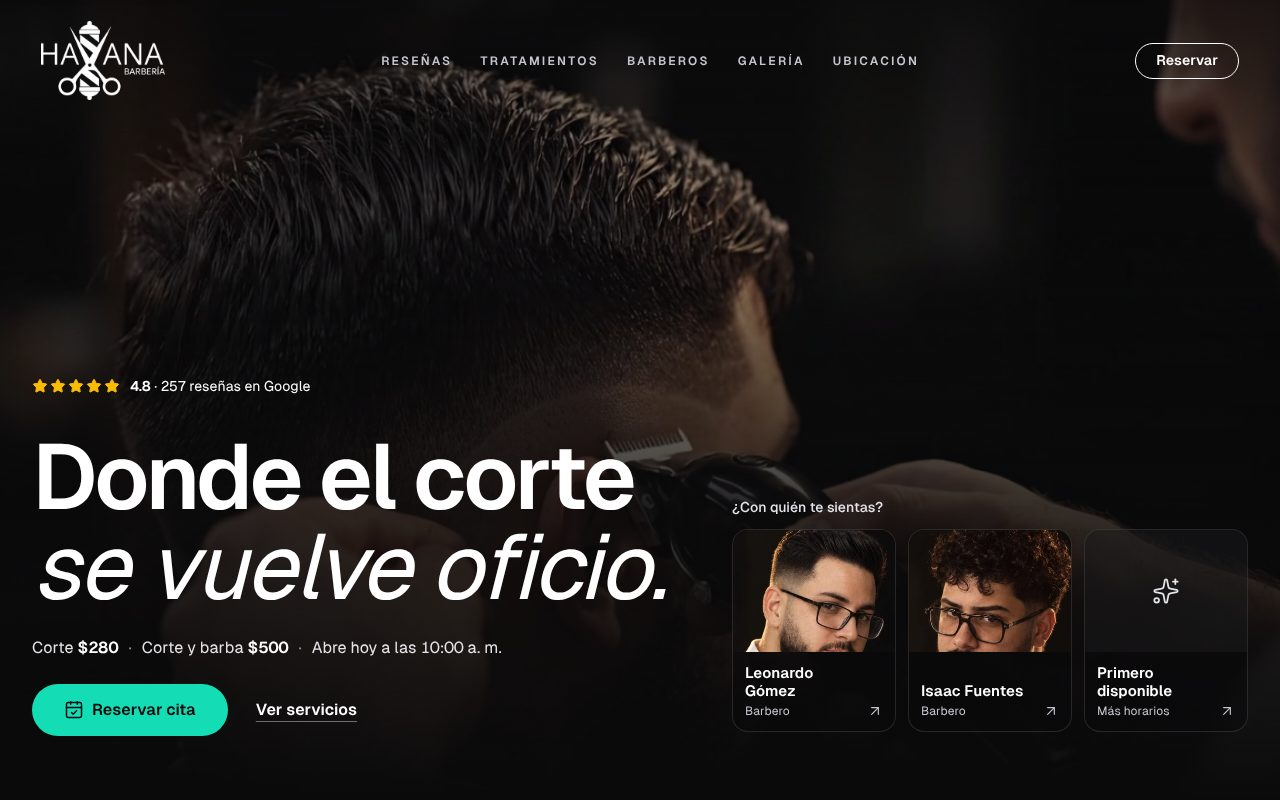
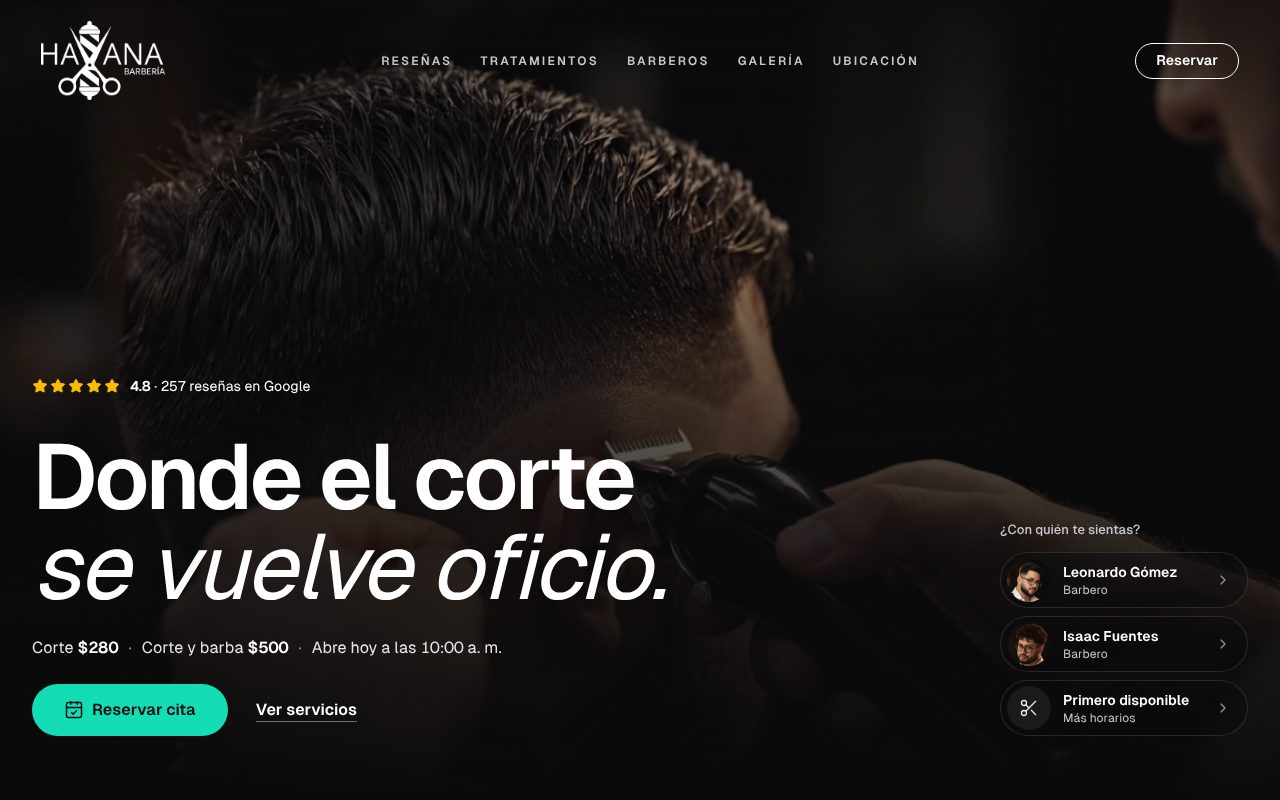
feat(hero): compact barber pills with head-and-shoulders crops
- New 120/240px head-and-shoulders crops for the hero picker (faces were
  cut by re-cropping the tight avatar squares to 4:3). Booking-flow
  avatars unchanged.
- Smaller, quieter pills (44px photo, name, role): a narrow column on
  desktop, a horizontal row on phones sized to their text.
- "Primero disponible" uses scissors instead of the sparkles icon.

Claude-Session: https://claude.ai/code/session_01NHKoghEm5eB2m6PAe8twDd

Changed region(s): [[0.7188, 0.6562, 0.9375, 0.9062], [0.5625, 0.625, 0.6875, 0.9062]]

diff --git a/src/features/home/HeroBarberPicker.tsx b/src/features/home/HeroBarberPicker.tsx
@@ -1,95 +1,90 @@
 import { Link } from 'react-router-dom'
-import { ArrowUpRight, Sparkles } from 'lucide-react'
+import { ChevronRight, Scissors } from 'lucide-react'
 import { useStaff } from '@/app/queries'
 import { routes } from '@/app/routes'
 import { teamOrder } from '@/config/team'
 import { cn } from '@/lib/cn'
-import { staffFaces } from './media'
+import { staffCards } from './media'
 
-const card = cn(
-  'group relative flex h-full w-[148px] shrink-0 snap-start flex-col overflow-hidden rounded-lg border border-white/[0.12] bg-ink-950/55 backdrop-blur-md',
-  'transition-[border-color,background-color,transform] duration-base ease-brand hover:-translate-y-0.5 hover:border-white/30 hover:bg-ink-950/70',
-  'focus-visible:outline focus-visible:outline-2 focus-visible:outline-offset-2 focus-visible:outline-aqua-400 motion-reduce:hover:translate-y-0',
-  'sm:w-[164px]',
+const row = cn(
+  'group flex h-14 w-auto shrink-0 snap-start items-center gap-3 rounded-full border border-white/[0.12] bg-ink-950/50 pl-1.5 pr-4 backdrop-blur-md',
+  'transition-[border-color,background-color] duration-base ease-brand hover:border-white/30 hover:bg-ink-950/70',
+  'focus-visible:outline focus-visible:outline-2 focus-visible:outline-offset-2 focus-visible:outline-aqua-400',
+  'lg:w-[248px]',
 )
 
+function RowText({ title, subtitle }: { title: string; subtitle: string }) {
+  return (
+    <>
+      <span className="grid flex-none whitespace-nowrap leading-tight lg:min-w-0 lg:flex-1 lg:whitespace-normal">
+        <span className="truncate text-sm font-semibold text-white">{title}</span>
+        <span className="truncate text-xs text-gray-300">{subtitle}</span>
+      </span>
+      <ChevronRight
+        className="size-4 shrink-0 text-gray-400 transition-[color,transform] duration-base group-hover:translate-x-0.5 group-hover:text-white motion-reduce:group-hover:translate-x-0"
+        strokeWidth={1.75}
+        aria-hidden
+      />
+    </>
+  )
+}
+
 /**
- * "¿Con quién te sientas?" — one tap opens the booking flow with the barber
- * preselected (the flow already reads ?barbero=). The service is chosen in step 1.
+ * "¿Con quién te sientas?" — compact pills; one tap opens the booking flow with the
+ * barber preselected (the flow already reads ?barbero=). The service is chosen in step 1.
+ * Desktop: a narrow column; phones: a horizontal row that scrolls.
  */
 export function HeroBarberPicker() {
   const { data: staff } = useStaff()
-  // One slot per barber from the start (skeleton until the data arrives), so the
-  // carousel never shifts or re-snaps when the cards load.
+  // One slot per barber from the start (skeleton until data arrives) so nothing shifts.
   const barbers = teamOrder.map((id) => ({ id, s: staff?.find((x) => x.id === id) }))
 
   return (
-    <div className="grid gap-3">
-      <p id="hero-barbers" className="text-sm font-medium text-gray-200">
+    <div className="grid gap-2.5">
+      <p id="hero-barbers" className="text-[13px] font-medium text-gray-300">
         ¿Con quién te sientas?
       </p>
       <ul
         aria-labelledby="hero-barbers"
-        className="no-scrollbar -mx-4 flex snap-x scroll-px-4 items-stretch gap-3 overflow-x-auto px-4 pb-1 lg:mx-0 lg:overflow-visible lg:px-0"
+        className="no-scrollbar -mx-4 flex snap-x scroll-px-4 gap-2 overflow-x-auto px-4 pb-1 lg:mx-0 lg:flex-col lg:overflow-visible lg:px-0 lg:pb-0"
       >
         {barbers.map(({ id, s: b }) => {
-          const face = staffFaces[id]
+          const photo = staffCards[id]
           if (!b)
             return (
-              <li key={id} className="flex" aria-hidden>
-                <span className={cn(card, 'animate-pulse')}>
-                  <span className="aspect-[4/3] w-full bg-white/[0.06]" />
-                  <span className="h-[58px]" />
+              <li key={id} aria-hidden className="shrink-0">
+                <span className={cn(row, 'animate-pulse')}>
+                  <span className="size-11 shrink-0 rounded-full bg-white/[0.08]" />
                 </span>
               </li>
             )
           return (
-            <li key={id} className="flex">
-              <Link to={routes.bookWith({ staffId: b.id })} className={card}>
-                {face && (
+            <li key={id} className="shrink-0">
+              <Link to={routes.bookWith({ staffId: id })} className={row}>
+                {photo && (
                   <img
-                    src={face.src}
-                    srcSet={face.srcSet}
-                    sizes="164px"
+                    src={photo.src}
+                    srcSet={photo.srcSet}
+                    sizes="44px"
                     alt=""
-                    width={160}
-                    height={160}
+                    width={44}
+                    height={44}
                     loading="lazy"
                     decoding="async"
-                    className="aspect-[4/3] w-full object-cover object-[50%_35%]"
+                    className="size-11 shrink-0 rounded-full object-cover"
                   />
                 )}
-                <span className="flex flex-1 items-end justify-between gap-2 p-3">
-                  <span className="grid">
-                    <span className="text-[15px] font-semibold leading-tight text-white">{b.name}</span>
-                    <span className="mt-0.5 text-xs text-gray-300">Barbero</span>
-                  </span>
-                  <ArrowUpRight
-                    className="size-4 shrink-0 text-gray-300 transition-colors group-hover:text-white"
-                    strokeWidth={1.75}
-                    aria-hidden
-                  />
-                </span>
+                <RowText title={b.name} subtitle="Barbero" />
               </Link>
             </li>
           )
         })}
-        <li className="flex">
-          <Link to={routes.bookWith({ staffId: 'any' })} className={card}>
-            <span className="grid aspect-[4/3] w-full place-items-center bg-white/[0.04]" aria-hidden>
-              <Sparkles className="size-7 text-gray-200" strokeWidth={1.5} />
+        <li className="shrink-0">
+          <Link to={routes.bookWith({ staffId: 'any' })} className={row}>
+            <span className="grid size-11 shrink-0 place-items-center rounded-full bg-white/[0.07]" aria-hidden>
+              <Scissors className="size-5 text-gray-200" strokeWidth={1.6} />
             </span>
-            <span className="flex flex-1 items-end justify-between gap-2 p-3">
-              <span className="grid">
-                <span className="text-[15px] font-semibold leading-tight text-white">Primero disponible</span>
-                <span className="mt-0.5 text-xs text-gray-300">Más horarios</span>
-              </span>
-              <ArrowUpRight
-                className="size-4 shrink-0 text-gray-300 transition-colors group-hover:text-white"
-                strokeWidth={1.75}
-                aria-hidden
-              />
-            </span>
+            <RowText title="Primero disponible" subtitle="Más horarios" />
           </Link>
         </li>
       </ul>

diff --git a/src/features/home/media.ts b/src/features/home/media.ts
@@ -11,6 +11,10 @@ import isaacFace160 from '@/assets/team/isaac-fuentes-face-160.webp'
 import isaacFace320 from '@/assets/team/isaac-fuentes-face-320.webp'
 import leoFace160 from '@/assets/team/leonardo-gomez-face-160.webp'
 import leoFace320 from '@/assets/team/leonardo-gomez-face-320.webp'
+import isaacCard120 from '@/assets/team/isaac-fuentes-card-120.webp'
+import isaacCard240 from '@/assets/team/isaac-fuentes-card-240.webp'
+import leoCard120 from '@/assets/team/leonardo-gomez-card-120.webp'
+import leoCard240 from '@/assets/team/leonardo-gomez-card-240.webp'
 import isaacPortrait400 from '@/assets/team/isaac-fuentes-portrait-400.webp'
 import isaacPortrait800 from '@/assets/team/isaac-fuentes-portrait-800.webp'
 import leoPortrait400 from '@/assets/team/leonardo-gomez-portrait-400.webp'
@@ -46,6 +50,12 @@ export const servicePhotos: Record<string, Responsive & { alt: string }> = {
 export const staffFaces: Record<string, { src: string; srcSet: string }> = {
   isaac: { src: isaacFace160, srcSet: `${isaacFace160} 160w, ${isaacFace320} 320w` },
   leonardo: { src: leoFace160, srcSet: `${leoFace160} 160w, ${leoFace320} 320w` },
+}
+
+/** Head-and-shoulders squares for the hero barber picker. */
+export const staffCards: Record<string, { src: string; srcSet: string }> = {
+  isaac: { src: isaacCard120, srcSet: `${isaacCard120} 120w, ${isaacCard240} 240w` },
+  leonardo: { src: leoCard120, srcSet: `${leoCard120} 120w, ${leoCard240} 240w` },
 }
 
 export const staffPortraits: Record<string, Responsive & { position: string }> = {

diff --git a/scripts/optimize-assets.py b/scripts/optimize-assets.py
@@ -54,6 +54,8 @@ for src in sorted((A / "services").glob("*-source.png")):
 # --- Team: 4:5 portraits and face crops -----------------------------------------------
 # Face boxes (x, y, side) measured on the sources; square crops for the booking avatars.
 FACES = {"isaac-fuentes": (231, 40, 520), "leonardo-gomez": (131, 88, 460)}
+# Head-and-shoulders squares with breathing room, for the home hero barber cards.
+CARDS = {"isaac-fuentes": (171, 0, 640), "leonardo-gomez": (71, 30, 620)}
 print("team")
 for src in sorted((A / "team").glob("*-source.png")):
     name = src.name.replace("-source.png", "")
@@ -69,6 +71,10 @@ for src in sorted((A / "team").glob("*-source.png")):
     face = im.crop((fx, fy, fx + side, fy + side))
     for s in (160, 320):
         webp(face.resize((s, s), Image.LANCZOS), A / "team" / f"{name}-face-{s}.webp", quality=85)
+    cx, cy, cs = CARDS[name]
+    card = im.crop((cx, cy, cx + cs, cy + cs))
+    for s in (120, 240):
+        webp(card.resize((s, s), Image.LANCZOS), A / "team" / f"{name}-card-{s}.webp", quality=85)
 
 # --- Video poster (first frame) and a blurred version for the scrolled backdrop ---------
 print("video")
